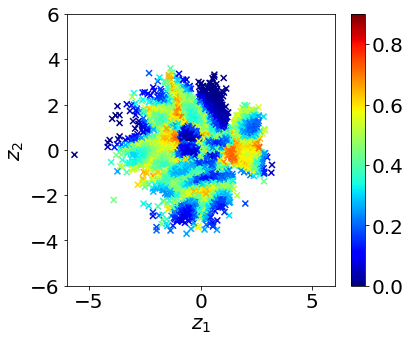
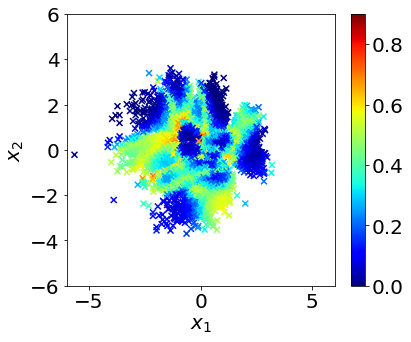
new figures

diff --git a/python/ssl_mar/plot.py b/python/ssl_mar/plot.py
@@ -60,8 +60,8 @@ def plot_labeled_unlabeled(z_labeled, y_labeled, z_unlabeled):
     plt.figure(figsize=(6, 5))
     plt.scatter(z_unlabeled[:, 0], z_unlabeled[:, 1], marker='x', c=(0,0,0), alpha=0.05)
     plt.scatter(z_labeled[:, 0], z_labeled[:, 1], marker='x', c=y_labeled, cmap=cmap, vmin = -0.5, vmax = 9.5)
-    plt.xlabel("$z_1$")
-    plt.ylabel("$z_2$")
+    plt.xlabel("$x_1$")
+    plt.ylabel("$x_2$")
     plt.xlim([-6, 6])
     plt.ylim([-6, 6])
     plt.colorbar(ticks=[0,1,2,3,4,5,6,7,8,9])
@@ -71,8 +71,8 @@ def plot_labeled_unlabeled(z_labeled, y_labeled, z_unlabeled):
 def plot_maxlrt(z_unlabeled, lrt_y): 
     plt.figure(figsize=(6, 5))
     plt.scatter(z_unlabeled[:, 0], z_unlabeled[:, 1], c=np.max(lrt_y, axis=1), marker='x', cmap='jet', vmin = -5, vmax = 5)
-    plt.xlabel("$z_1$")
-    plt.ylabel("$z_2$")
+    plt.xlabel("$x_1$")
+    plt.ylabel("$x_2$")
     plt.xlim([-6, 6])
     plt.ylim([-6, 6])
     plt.colorbar()
@@ -125,8 +125,8 @@ def plot_test(z_test, y_test_hat, y_test, pe_test):
     plt.figure(figsize=(6, 5))
     plt.scatter(z_test[:, 0], z_test[:, 1], c=pe_test, marker='x', alpha=0.1, cmap='jet', vmin = 0, vmax = .9)
     plt.colorbar()
-    plt.xlabel("$z_1$")
-    plt.ylabel("$z_2$")
+    plt.xlabel("$x_1$")
+    plt.ylabel("$x_2$")
     plt.xlim([-6, 6])
     plt.ylim([-6, 6])
 #    plt.title('Estimated error probability')
@@ -156,8 +156,8 @@ def plot_test_mcar(z_test, y_test_hat, y_test, pe_test, leftout_classes):
     plt.figure(figsize=(6, 5))
     plt.scatter(z_test[:, 0], z_test[:, 1], c=pe_test, marker='x', cmap='jet', vmin = 0, vmax = .9)
     plt.colorbar()
-    plt.xlabel("$z_1$")
-    plt.ylabel("$z_2$")
+    plt.xlabel("$x_1$")
+    plt.ylabel("$x_2$")
     plt.xlim([-6, 6])
     plt.ylim([-6, 6])
     plt.savefig("estimated_pe_mcar.png")
@@ -179,8 +179,8 @@ def plot_test_mcar_soft(z_test, y_test_hat, y_test, pe_test, leftout_classes):
     plt.figure(figsize=(6, 5))
     plt.scatter(z_test[:, 0], z_test[:, 1], c=pe_test, marker='x', cmap='jet', vmin = 0, vmax = .9)
     plt.colorbar()
-    plt.xlabel("$z_1$")
-    plt.ylabel("$z_2$")
+    plt.xlabel("$x_1$")
+    plt.ylabel("$x_2$")
     plt.xlim([-6, 6])
     plt.ylim([-6, 6])
     plt.savefig("estimated_pe_mcar_soft.png")
@@ -202,8 +202,8 @@ def plot_test_mar(z_test, y_test_hat, y_test, pe_test, leftout_classes):
     plt.figure(figsize=(6, 5))
     plt.scatter(z_test[:, 0], z_test[:, 1], c=pe_test, marker='x', cmap='jet', vmin = 0, vmax = .9)
     plt.colorbar()
-    plt.xlabel("$z_1$")
-    plt.ylabel("$z_2$")
+    plt.xlabel("$x_1$")
+    plt.ylabel("$x_2$")
     plt.xlim([-6, 6])
     plt.ylim([-6, 6])
     plt.savefig("estimated_pe_mar.png")

diff --git a/python/ssl_mar/ssl_mar.py b/python/ssl_mar/ssl_mar.py
@@ -106,8 +106,8 @@ my_plt.plot_maxlrt(z_unlabeled, lrt_y)
 
 # Sampling from the posterior
 #y_unlabeled_hat = data.sampling_posterior_1(ll_y)
-#y_unlabeled_hat = data.sampling_posterior_2(ll_y, lrt_y)
-y_unlabeled_hat, _ = data.mle(ll_y)
+y_unlabeled_hat = data.sampling_posterior_2(ll_y, lrt_y)
+#y_unlabeled_hat, _ = data.mle(ll_y)
 #my_plt.plot_samples(z_unlabeled, y_unlabeled_hat, y_unlabeled)
 
 # GMM for labeled data + samples from posterior of each class
@@ -152,14 +152,14 @@ ll_y_test[:, leftout_classes] = np.NINF
 y_test_mle, pe_test_mle = data.mle(ll_y_test)
 #my_plt.plot_test(z_test, y_test_mle, y_test, pe_test_mle)
 
-#my_plt.plot_test_mar(z_test, y_test_mle, y_test, pe_test_mle, leftout_classes)
-#my_plt.plot_test_mar_2(z_test, y_test_mle, y_test, pe_test_mle, leftout_classes)
+my_plt.plot_test_mar(z_test, y_test_mle, y_test, pe_test_mle, leftout_classes)
+my_plt.plot_test_mar_2(z_test, y_test_mle, y_test, pe_test_mle, leftout_classes)
 
 #my_plt.plot_test_mcar_soft(z_test, y_test_mle, y_test, pe_test_mle, leftout_classes)
 #my_plt.plot_test_mcar_soft_2(z_test, y_test_mle, y_test, pe_test_mle, leftout_classes)
 
-my_plt.plot_test_mcar(z_test, y_test_mle, y_test, pe_test_mle, leftout_classes)
-my_plt.plot_test_mcar_2(z_test, y_test_mle, y_test, pe_test_mle, leftout_classes)
+#my_plt.plot_test_mcar(z_test, y_test_mle, y_test, pe_test_mle, leftout_classes)
+#my_plt.plot_test_mcar_2(z_test, y_test_mle, y_test, pe_test_mle, leftout_classes)
 
 #my_plt.plot_topn_pe(x_test, z_test, y_test_mle, y_test, pe_test_mle, decoder, 10)
 

diff --git a/python/two_moon/main.py b/python/two_moon/main.py
@@ -17,3 +17,5 @@ data = make_moons(n_samples=1000, noise=0.1, random_state=0)
 plt.figure(figsize=(5, 5))
 plt.scatter(data[0][:, 0], data[0][:, 1], c = data[1], cmap='jet')
 
+data_l = 
+
